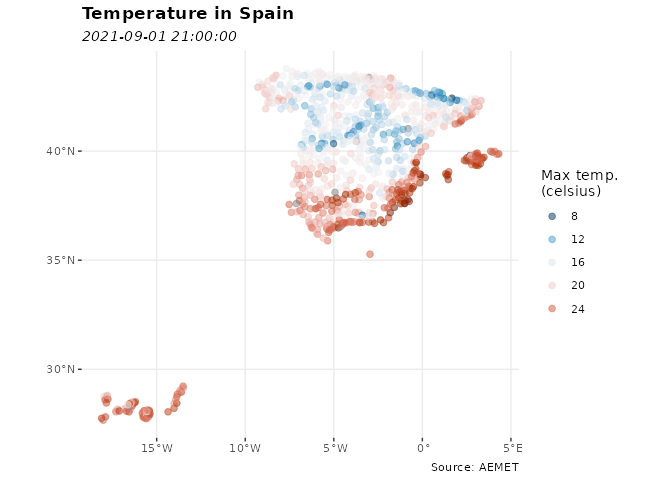
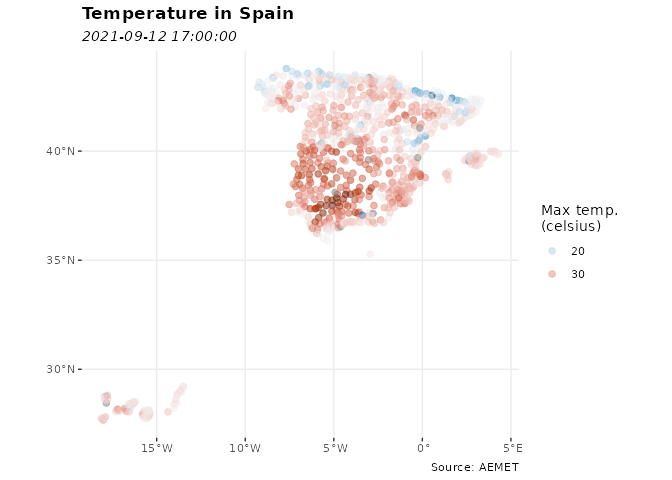
Update docs with pkgdev

diff --git a/README.md b/README.md
@@ -116,7 +116,6 @@ an hour, numbers are parsed as double, etc.).
 You may see the following message on load:
 
 ``` r
-
 library(climaemet)
 #> 
 #> Welcome to climaemet (1.0.0)
@@ -136,16 +135,16 @@ aemet_last_obs("9434")
 #> # A tibble: 23 × 25
 #>    idema   lon fint                 prec   alt  vmax    vv    dv   lat  dmax
 #>    <chr> <dbl> <dttm>              <dbl> <dbl> <dbl> <dbl> <dbl> <dbl> <dbl>
-#>  1 9434  -1.00 2021-09-01 21:00:00  11.8   249   8.1   4.2   254  41.7   293
-#>  2 9434  -1.00 2021-09-01 22:00:00  17     249   6     3     143  41.7   238
-#>  3 9434  -1.00 2021-09-01 23:00:00   1.6   249   5.5   3.4   132  41.7   105
-#>  4 9434  -1.00 2021-09-02 00:00:00   0     249   6.4   4.1   106  41.7   115
-#>  5 9434  -1.00 2021-09-02 01:00:00   0.2   249   6.2   3.2   109  41.7   125
-#>  6 9434  -1.00 2021-09-02 02:00:00   0.2   249   4.2   1.8   109  41.7   115
-#>  7 9434  -1.00 2021-09-02 03:00:00   0     249   2.8   2     110  41.7   115
-#>  8 9434  -1.00 2021-09-02 04:00:00   0     249   3.8   0.9   137  41.7   115
-#>  9 9434  -1.00 2021-09-02 05:00:00   0     249   1.4   0.9    45  41.7    70
-#> 10 9434  -1.00 2021-09-02 06:00:00   0     249   2     0.4    95  41.7    78
+#>  1 9434  -1.00 2021-09-12 17:00:00     0   249   4.8   2      89  41.7   325
+#>  2 9434  -1.00 2021-09-12 18:00:00     0   249   7.6   2.3   109  41.7   348
+#>  3 9434  -1.00 2021-09-12 19:00:00     0   249   2.5   1.4   145  41.7   105
+#>  4 9434  -1.00 2021-09-12 20:00:00     0   249   3.6   2.4    93  41.7    98
+#>  5 9434  -1.00 2021-09-12 21:00:00     0   249   3.1   2.3   106  41.7   123
+#>  6 9434  -1.00 2021-09-12 22:00:00     0   249   5     3.1   119  41.7   120
+#>  7 9434  -1.00 2021-09-12 23:00:00     0   249   5.9   3.9   118  41.7   130
+#>  8 9434  -1.00 2021-09-13 00:00:00     0   249   5.2   3.3   102  41.7   113
+#>  9 9434  -1.00 2021-09-13 01:00:00     0   249   5.1   2.5   104  41.7    98
+#> 10 9434  -1.00 2021-09-13 02:00:00     0   249   5.6   3.2   118  41.7   133
 #> # … with 13 more rows, and 15 more variables: ubi <chr>, pres <dbl>, hr <dbl>,
 #> #   stdvv <dbl>, ts <dbl>, pres_nmar <dbl>, tamin <dbl>, ta <dbl>, tamax <dbl>,
 #> #   tpr <dbl>, stddv <dbl>, inso <dbl>, tss5cm <dbl>, pacutp <dbl>,
@@ -158,7 +157,6 @@ The package provides several functions to access the data of the API.
 Here you can find some examples:
 
 ``` r
-
 ## Get AEMET stations
 stations <- aemet_stations() # Need to have the API Key registered
 
@@ -175,7 +173,6 @@ knitr::kable(head(stations))
 | 0229I      | 08192    | SABADELL AEROPUERTO  | BARCELONA |     146 | 2.103056 | 41.52361 |
 
 ``` r
-
 station <- "9434" # Zaragoza Aeropuerto
 
 ## Get last observation values for a station
@@ -186,15 +183,14 @@ knitr::kable(head(data_observation))
 
 | idema |        lon | fint                | prec | alt | vmax |  vv |  dv |      lat | dmax | ubi                 |  pres | hr | stdvv |   ts | pres\_nmar | tamin |   ta | tamax |  tpr | stddv | inso | tss5cm | pacutp | tss20cm |
 | :---- | ---------: | :------------------ | ---: | --: | ---: | --: | --: | -------: | ---: | :------------------ | ----: | -: | ----: | ---: | ---------: | ----: | ---: | ----: | ---: | ----: | ---: | -----: | -----: | ------: |
-| 9434  | \-1.004167 | 2021-09-01 21:00:00 | 11.8 | 249 |  8.1 | 4.2 | 254 | 41.66056 |  293 | ZARAGOZA AEROPUERTO | 989.7 | 90 |   0.9 | 18.0 |     1019.0 |  18.7 | 18.7 |  19.9 | 17.1 |    17 |    0 |   22.9 |  11.52 |    27.4 |
-| 9434  | \-1.004167 | 2021-09-01 22:00:00 | 17.0 | 249 |  6.0 | 3.0 | 143 | 41.66056 |  238 | ZARAGOZA AEROPUERTO | 989.5 | 93 |   0.5 | 17.3 |     1018.9 |  17.8 | 17.8 |  18.7 | 16.6 |     9 |    0 |   21.5 |  15.69 |    27.0 |
-| 9434  | \-1.004167 | 2021-09-01 23:00:00 |  1.6 | 249 |  5.5 | 3.4 | 132 | 41.66056 |  105 | ZARAGOZA AEROPUERTO | 988.4 | 95 |   0.7 | 17.2 |     1017.8 |  17.4 | 17.5 |  17.8 | 16.7 |    17 |    0 |   21.4 |   1.33 |    26.3 |
-| 9434  | \-1.004167 | 2021-09-02 00:00:00 |  0.0 | 249 |  6.4 | 4.1 | 106 | 41.66056 |  115 | ZARAGOZA AEROPUERTO | 987.6 | 92 |   0.9 | 16.9 |     1017.0 |  17.4 | 17.4 |  17.6 | 16.0 |    13 |    0 |   21.5 |   0.00 |    25.7 |
-| 9434  | \-1.004167 | 2021-09-02 01:00:00 |  0.2 | 249 |  6.2 | 3.2 | 109 | 41.66056 |  125 | ZARAGOZA AEROPUERTO | 987.5 | 94 |   0.6 | 16.6 |     1017.0 |  16.8 | 16.8 |  17.4 | 15.8 |    16 |    0 |   21.3 |   0.35 |    25.3 |
-| 9434  | \-1.004167 | 2021-09-02 02:00:00 |  0.2 | 249 |  4.2 | 1.8 | 109 | 41.66056 |  115 | ZARAGOZA AEROPUERTO | 987.3 | 97 |   0.3 | 16.9 |     1016.7 |  16.7 | 16.9 |  16.9 | 16.4 |     8 |    0 |   21.1 |   0.04 |    24.9 |
+| 9434  | \-1.004167 | 2021-09-12 17:00:00 |    0 | 249 |  4.8 | 2.0 |  89 | 41.66056 |  325 | ZARAGOZA AEROPUERTO | 983.1 | 32 |   0.6 | 32.8 |     1011.0 |  31.6 | 31.6 |  32.1 | 12.8 |    26 | 60.0 |   33.1 |      0 |    29.4 |
+| 9434  | \-1.004167 | 2021-09-12 18:00:00 |    0 | 249 |  7.6 | 2.3 | 109 | 41.66056 |  348 | ZARAGOZA AEROPUERTO | 983.1 | 35 |   0.2 | 28.5 |     1011.2 |  29.6 | 29.6 |  31.8 | 12.5 |     7 | 22.7 |   31.9 |      0 |    29.7 |
+| 9434  | \-1.004167 | 2021-09-12 19:00:00 |    0 | 249 |  2.5 | 1.4 | 145 | 41.66056 |  105 | ZARAGOZA AEROPUERTO | 983.4 | 40 |   0.3 | 25.3 |     1011.7 |  27.8 | 27.8 |  29.6 | 13.0 |    17 |  0.0 |   30.7 |      0 |    29.9 |
+| 9434  | \-1.004167 | 2021-09-12 20:00:00 |    0 | 249 |  3.6 | 2.4 |  93 | 41.66056 |   98 | ZARAGOZA AEROPUERTO | 984.2 | 47 |   0.2 | 24.9 |     1012.6 |  26.1 | 26.1 |  27.8 | 13.9 |    10 |  0.0 |   29.7 |      0 |    29.9 |
+| 9434  | \-1.004167 | 2021-09-12 21:00:00 |    0 | 249 |  3.1 | 2.3 | 106 | 41.66056 |  123 | ZARAGOZA AEROPUERTO | 984.5 | 56 |   0.3 | 23.6 |     1013.1 |  24.7 | 24.7 |  26.1 | 15.3 |     7 |  0.0 |   29.0 |      0 |    29.7 |
+| 9434  | \-1.004167 | 2021-09-12 22:00:00 |    0 | 249 |  5.0 | 3.1 | 119 | 41.66056 |  120 | ZARAGOZA AEROPUERTO | 984.7 | 59 |   0.4 | 23.4 |     1013.3 |  24.0 | 24.0 |  24.7 | 15.5 |     6 |  0.0 |   28.3 |      0 |    29.5 |
 
 ``` r
-
 ## Get daily/annual climatology values for a station
 data_daily <-
   aemet_daily_clim(station, start = "2020-01-01", end = "2020-12-31")
@@ -212,8 +208,6 @@ knitr::kable(head(data_daily))
 | 2020-01-06 | 9434       | ZARAGOZA, AEROPUERTO | ZARAGOZA  |     249 |  2.3 | 0,0  |   1.4 | 23:59    |  3.2 | 00:00    | 29  |      3.1 |   7.2 | 20:20     | 0.0 |  1001.7 | 22          |   998.6 | 04          |
 
 ``` r
-
-
 ## Get monthly/annual climatology values for a station
 data_monthly <- aemet_monthly_clim(station, year = 2000)
 knitr::kable(head(data_monthly))
@@ -229,8 +223,6 @@ knitr::kable(head(data_monthly))
 | 2000-6 | 9434       | 12.2(09) |      2 | 57 |      0 |      0 | 11.3 | 995.0(14)  |     NA | 1017.1 |  987.6 |    16.0 | 37.5(27) |    20.3 |     19 |        0 |     18 | NA          |       1 |     10 |     75 |     NA |   27.7 |       6 | 11.0(08)  | 164 |       0 |        0 | 2955 |   34.9 |      8 |      4 |   29.2 |     21 |      0 |    16.5 |      0 |    23.0 |    29.8 |        0 |   26.1 | 977.9(09) |       5 |
 
 ``` r
-
-
 ## Get recorded extreme values of temperature for a station
 data_extremes <- aemet_extremes_clim(station, parameter = "T")
 knitr::kable(head(data_extremes))
@@ -249,7 +241,6 @@ We can also draw a “warming stripes” graph with the downloaded data from
 a weather station. These functions returns `ggplot2` plots:
 
 ``` r
-
 # Plot a climate stripes graph for a period of years for a station
 
 library(ggplot2)
@@ -275,7 +266,6 @@ direction over a period of time for the data downloaded from a weather
 station.:
 
 ``` r
-
 # Plot a windrose showing the wind speed and direction for a station over a days period.
 windrose_days(
   "9434",
@@ -298,7 +288,6 @@ Geodetic System (WGS)** and return coordinates in latitude/longitude
 (unprojected coordinates):
 
 ``` r
-
 # You would need to install `sf` if not installed yet
 # run install.packages("sf") for installation
 
